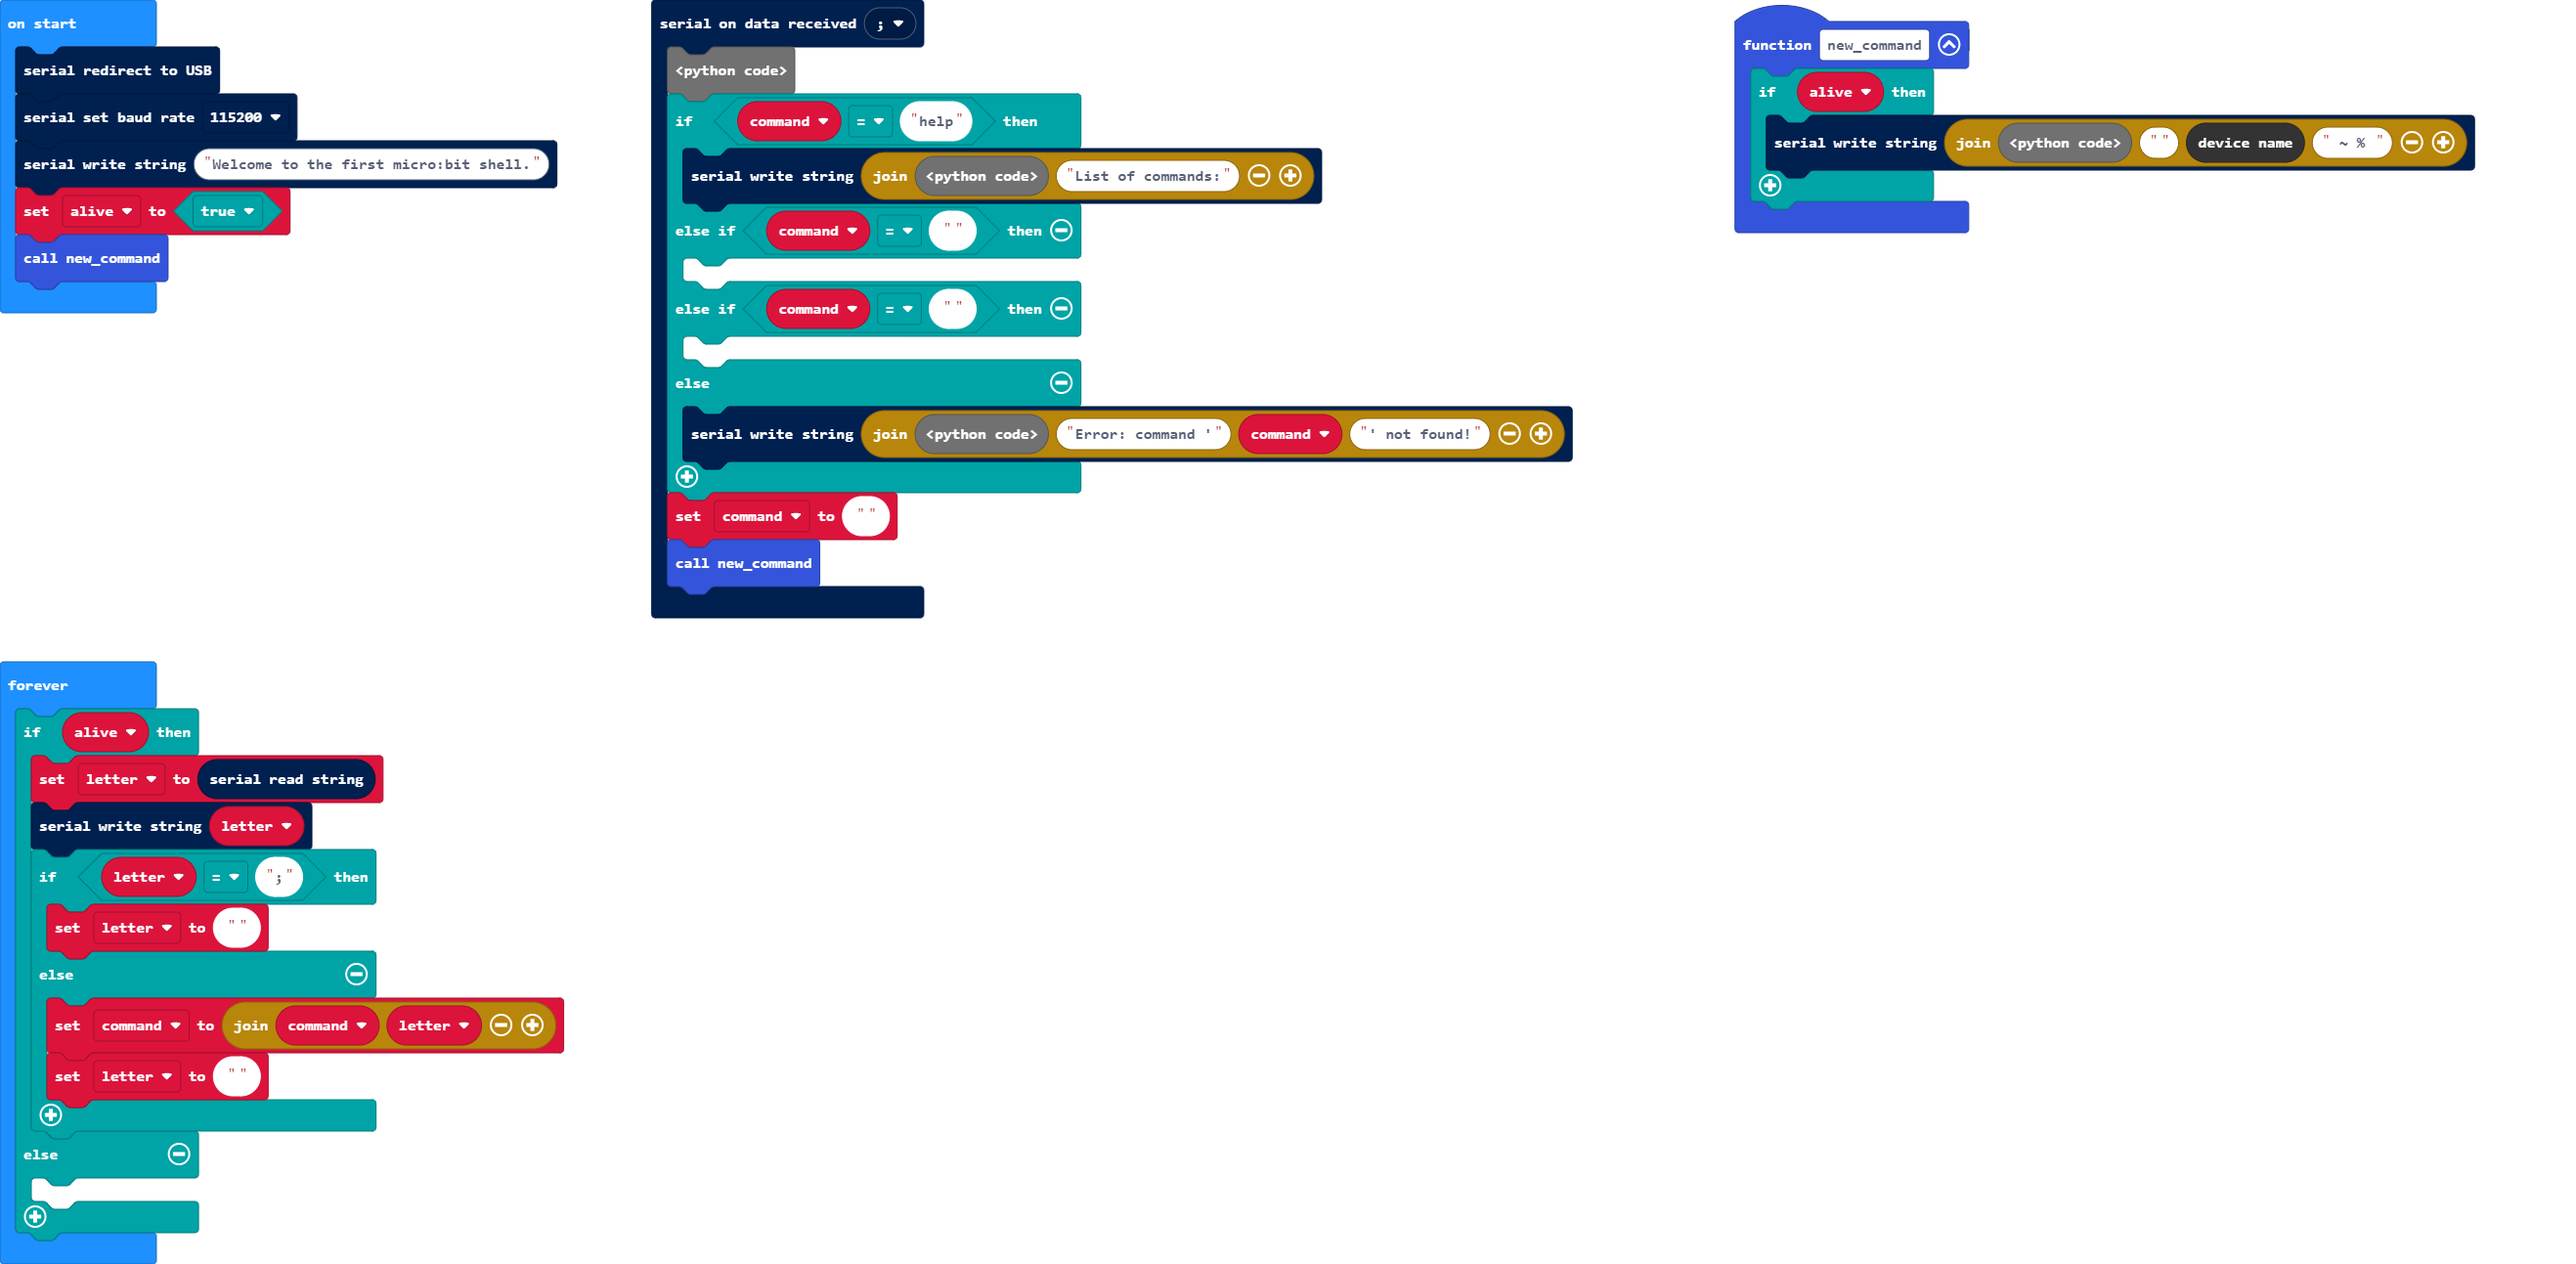
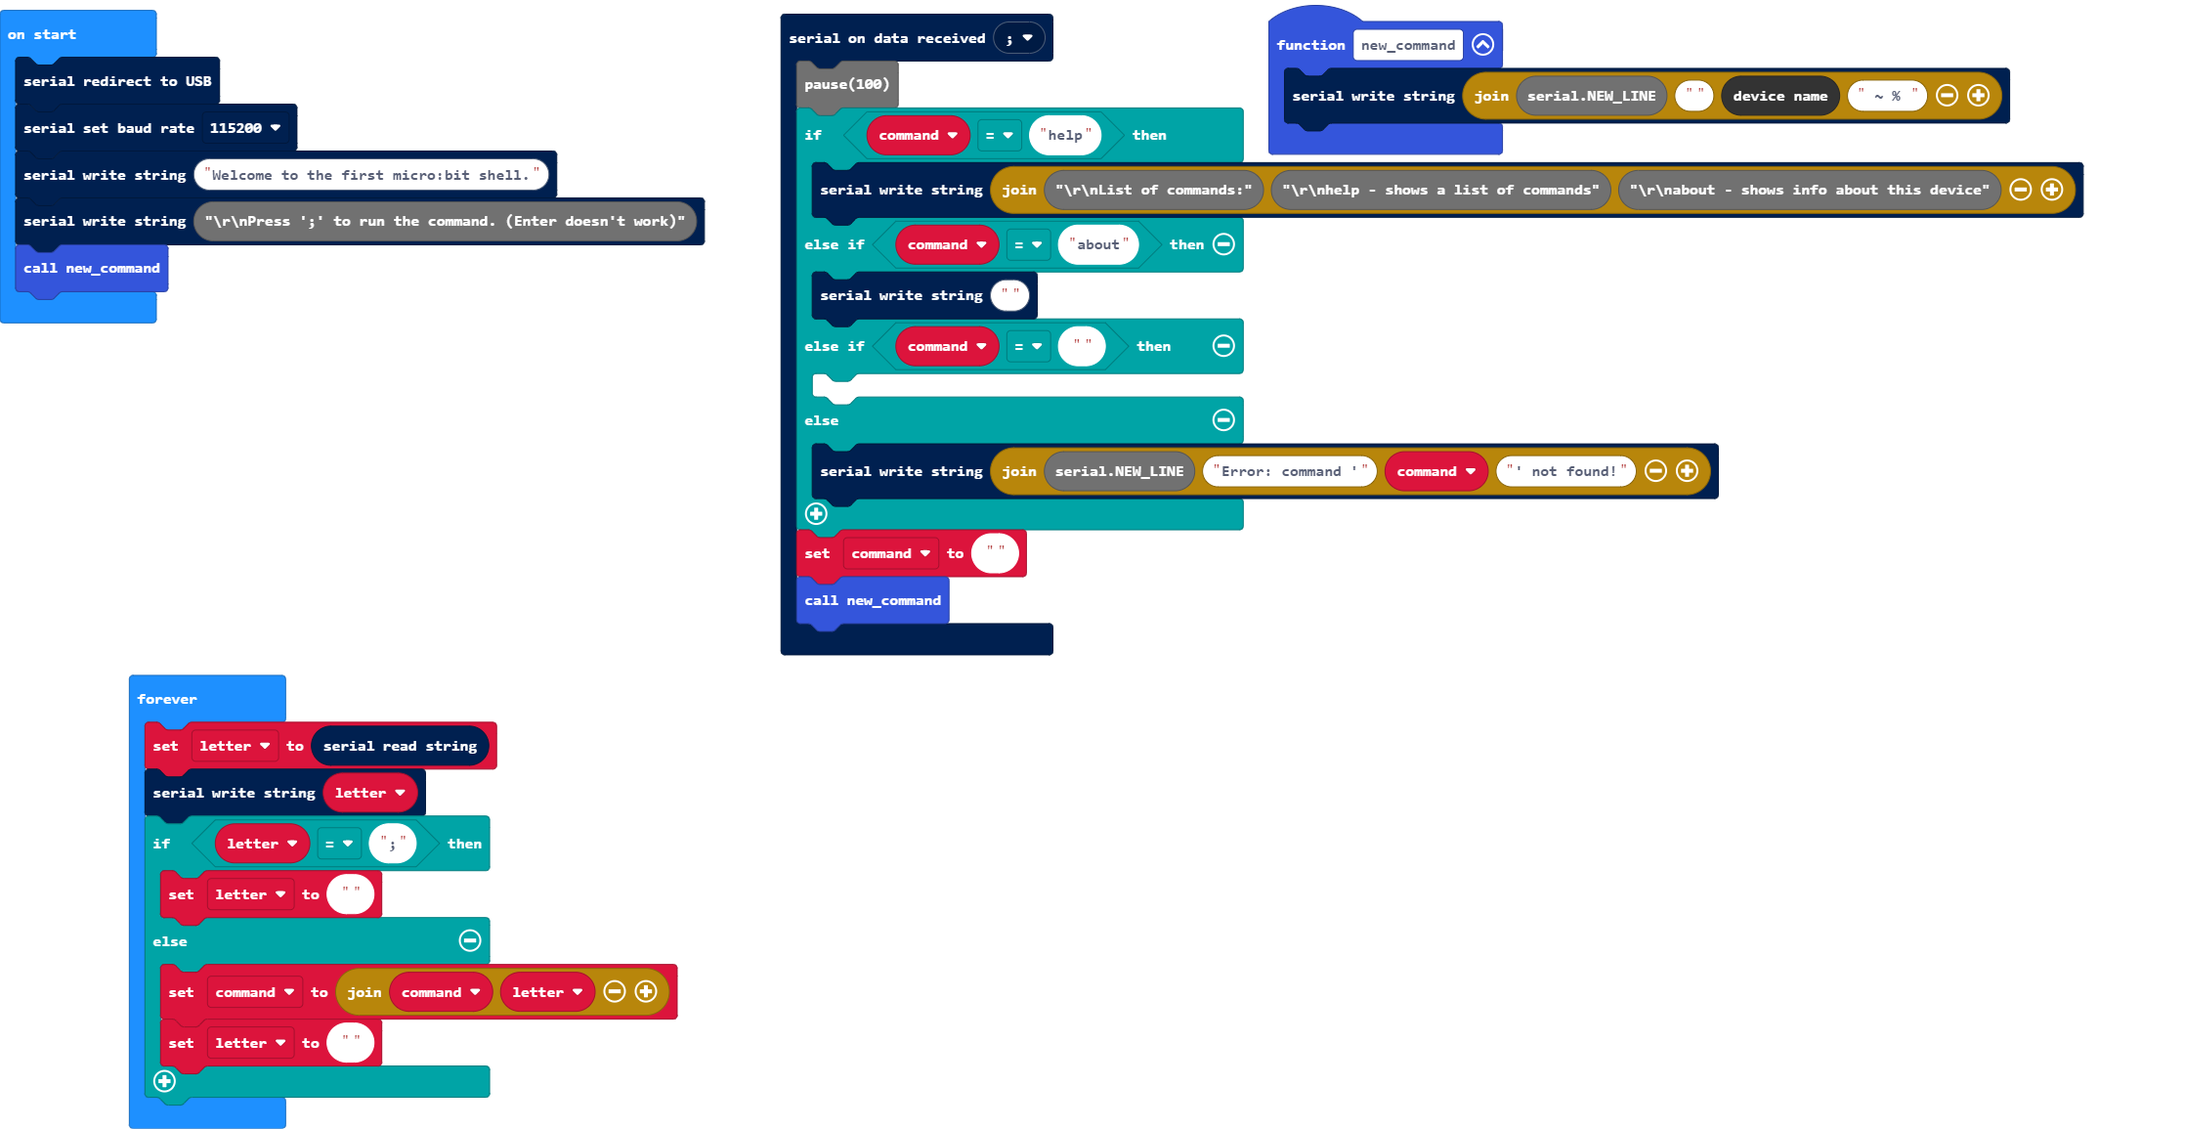
Update main.blocks, main.ts

Changed region(s): [[0.0, 0.0, 0.9875, 0.5922], [0.0, 0.4987, 0.3086, 1.0]]

diff --git a/main.ts b/main.ts
@@ -1,45 +1,42 @@
-serial.onDataReceived(serial.delimiters(Delimiters.SemiColon), function on_data_received() {
-    
+serial.onDataReceived(serial.delimiters(Delimiters.SemiColon), function () {
     pause(100)
+    command = command.toLowerCase()
     if (command == "help") {
-        serial.writeString("" + serial.NEW_LINE + "List of commands:")
-    } else if (command == "") {
-        
-    } else if (command == "") {
-        
-    } else {
-        serial.writeString("" + serial.NEW_LINE + "Error: command '" + command + "' not found!")
-    }
-    
+          serial.writeString("" + "\r\nList of commands:" + 
+            "\r\nhelp - shows a list of commands" + 
+            "\r\ninfo - shows info about this device")
+        } else if (command == "info") {
+            serial.writeString("\r\nInfo about this device:" + 
+            "\r\nDevice Name: " + control.deviceName() + 
+            "\r\nDevice Serial Number: " + control.deviceSerialNumber() + 
+            "\r\nTime Elapsed Since Boot: " + (control.millis() / 1000) + " s")
+        } else if (command == "about") {
+            serial.writeString("This is a shell, made using the Makecode editor with Javascript and the thing is it runs on a micro:bit")
+        } else {
+            serial.writeString("" + serial.NEW_LINE + "Error: command '" + command + "' not found!")
+        }
     command = ""
     new_command()
 })
-function new_command() {
-    if (alive) {
-        serial.writeString("" + serial.NEW_LINE + "" + control.deviceName() + " ~ % ")
-    }
-    
+
+function new_command () {
+    serial.writeString("\r\n" + control.deviceName() + " ~ % ")
 }
 
 let letter = ""
 let command = ""
-let alive = false
 serial.redirectToUSB()
 serial.setBaudRate(BaudRate.BaudRate115200)
 serial.writeString("Welcome to the first micro:bit shell.")
-alive = true
+serial.writeString("\r\nPress ';' to run the command. (Enter doesn't work)")
 new_command()
-basic.forever(function on_forever() {
-    
-    if (alive) {
-        letter = serial.readString()
-        serial.writeString(letter)
-        if (letter == ";") {
-            letter = ""
-        } else {
-            command = "" + command + letter
-            letter = ""
-        }
-        
+basic.forever(function () {
+    letter = serial.readString()
+    serial.writeString(letter)
+    if (letter == ";") {
+        letter = ""
+    } else {
+        command = "" + command + letter
+        letter = ""
     }
 })
